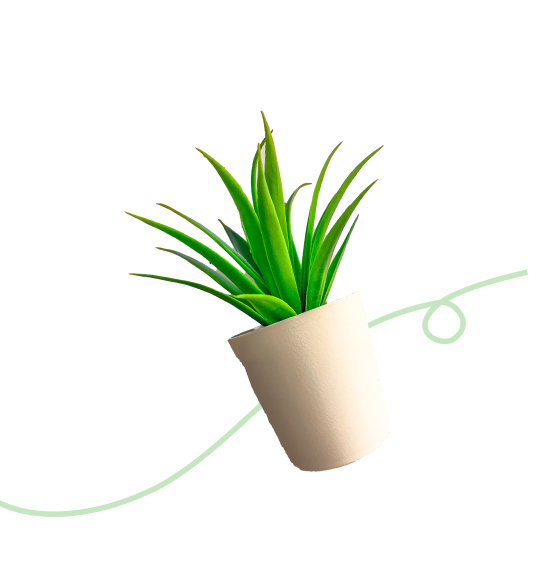
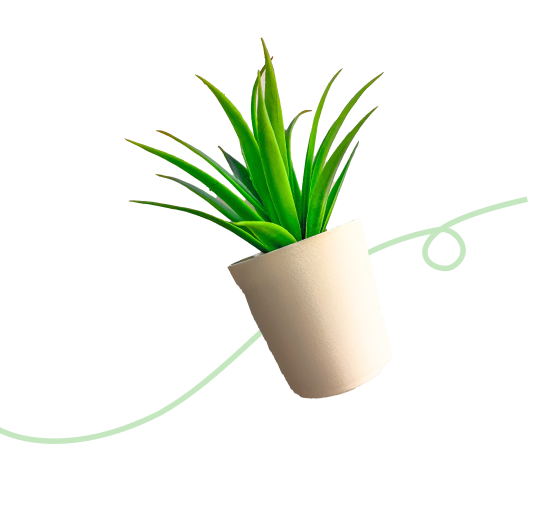
Update makeAnImpact Section

diff --git a/frontend/src/styles/Home.scss b/frontend/src/styles/Home.scss
@@ -91,7 +91,7 @@ a {
 .nav__logo {
   position: fixed;
   top: 1.32vw;
-  left: 5.8vw;
+  left: 6.2vw;
   width: 5vw;
 }
 .navlinks__shop,
@@ -173,6 +173,8 @@ a {
   }
 }
 #hero__arrow {
+  position: relative;
+  top: 0.05vw;
   width: 1.75vw;
   margin-left: 0.73vw;
 }
@@ -253,7 +255,7 @@ a {
 .makeAnImpact {
   overflow-x: hidden;
   width: 100vw;
-  height: 36.69vw;
+  height: 35vw;
   position: relative;
   background-color: #ffeed9;
 }
@@ -264,7 +266,7 @@ a {
   color: #494949;
   font-size: 16.4px;
   position: relative;
-  top: 5.2vw;
+  top: 4.5vw;
 }
 .makeAnImpact__text {
   font-family: $helve;
@@ -273,7 +275,7 @@ a {
   position: absolute;
   left: 50%;
   transform: translate(-50%, 0);
-  top: 6.2vw;
+  top: 5.5vw;
   padding-top: 42px;
   font-size: 1.95vw;
   letter-spacing: 1px;
@@ -286,14 +288,14 @@ a {
   height: 3.38vw;
   width: 9.96vw;
   background-color: $base-green;
-  top: 22.7vw;
+  top: 22vw;
   left: 50%;
   transform: translate(-50%, 0);
   display: flex;
   align-items: center;
   padding-left: 2.47vw;
   color: #fff;
-  font-size: 1vw;
+  font-size: 1.005vw;
   font-family: $sweet-sans-reg;
   cursor: pointer;
   filter: drop-shadow(0px 4px 20px rgba(0, 0, 0, 0.2));
@@ -345,12 +347,12 @@ a {
   position: relative;
 }
 .makeAnImpact__LeftPic {
-  top: -6vw;
+  top: -3vw;
 }
 .makeAnImpact__RightPic {
   left: 66.3%;
   transform: translate(-80%, 0);
-  top: -4.5vw;
+  top: -2.5vw;
 }
 .makeAnImpact__MobilePic {
   display: none;
@@ -471,7 +473,7 @@ a {
   top: 30.1vw;
   left: 83.8vw;
   width: 9vw;
-  height: 3vw;
+  height: 3.1vw;
 }
 .updated__leftPic {
   position: relative;
@@ -578,7 +580,7 @@ a {
 .footer__FollowUsPart {
   position: absolute;
   left: 47.5vw;
-  top: 265.45vw;
+  top: 263.45vw;
 }
 .footer__NeedHelpPart {
   left: 63vw;

diff --git a/frontend/src/styles/newsletter.scss b/frontend/src/styles/newsletter.scss
@@ -100,7 +100,7 @@ $sweet-sans-medium: "sweet-sans-pro-medium", sans-serif;
   transform: translateX(-50%);
   padding-right: 27.34vw;
   margin-top: 5vh;
-  top: 243.5vw;
+  top: 241vw;
   font-size: 0.91vw;
   font-family: $sweet-sans-medium;
 }
@@ -250,7 +250,7 @@ $sweet-sans-medium: "sweet-sans-pro-medium", sans-serif;
   .newsletter__errMessage {
     height: 6vw;
     width: 50%;
-    top: 997vw;
+    top: 1002.5vw;
     font-size: 3.91vw;
     font-family: $sweet-sans-medium;
   }
